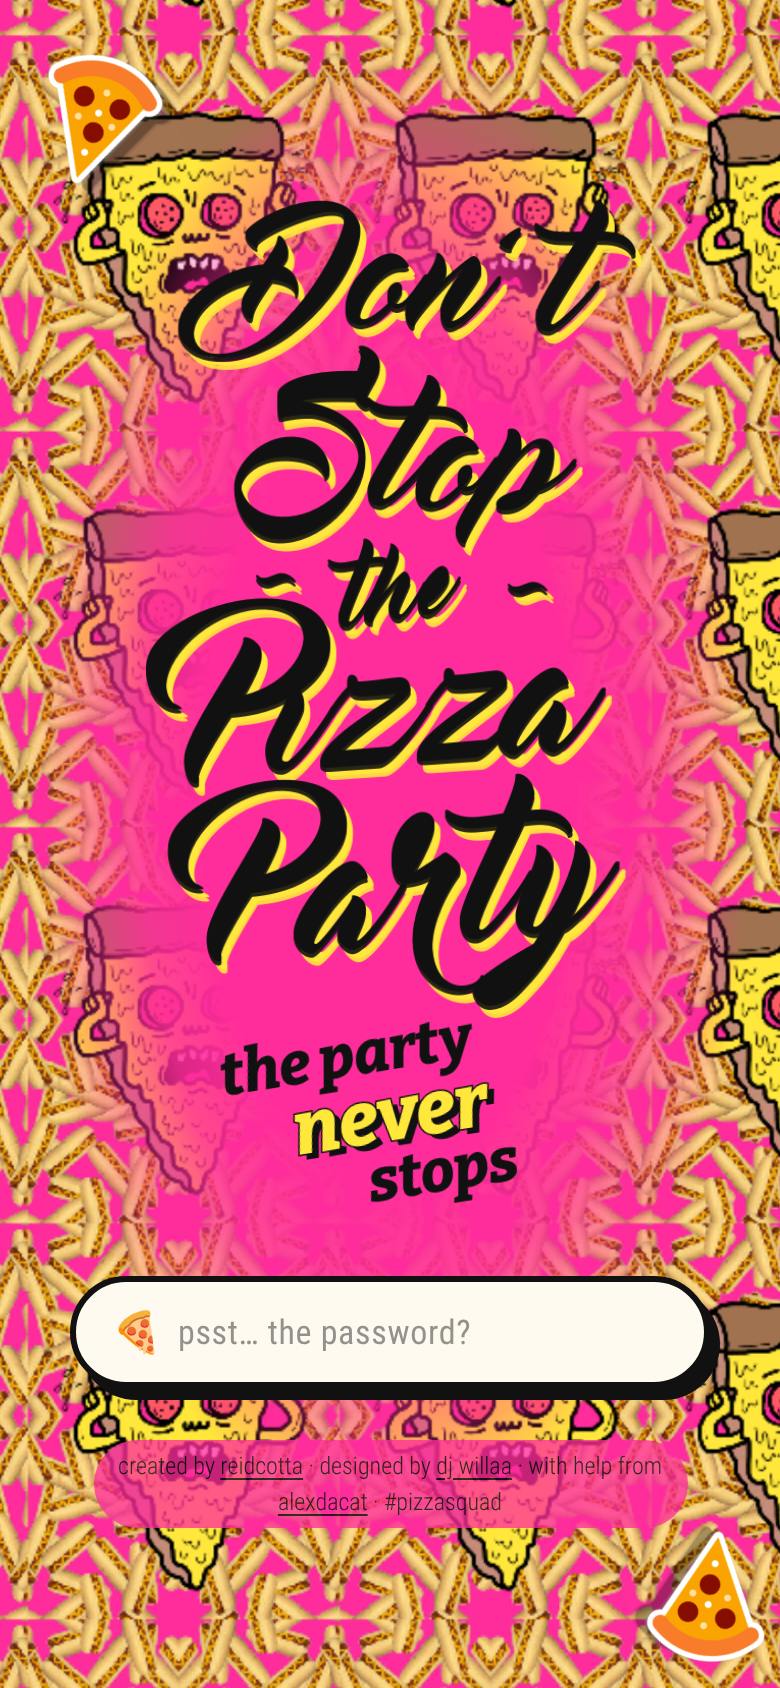
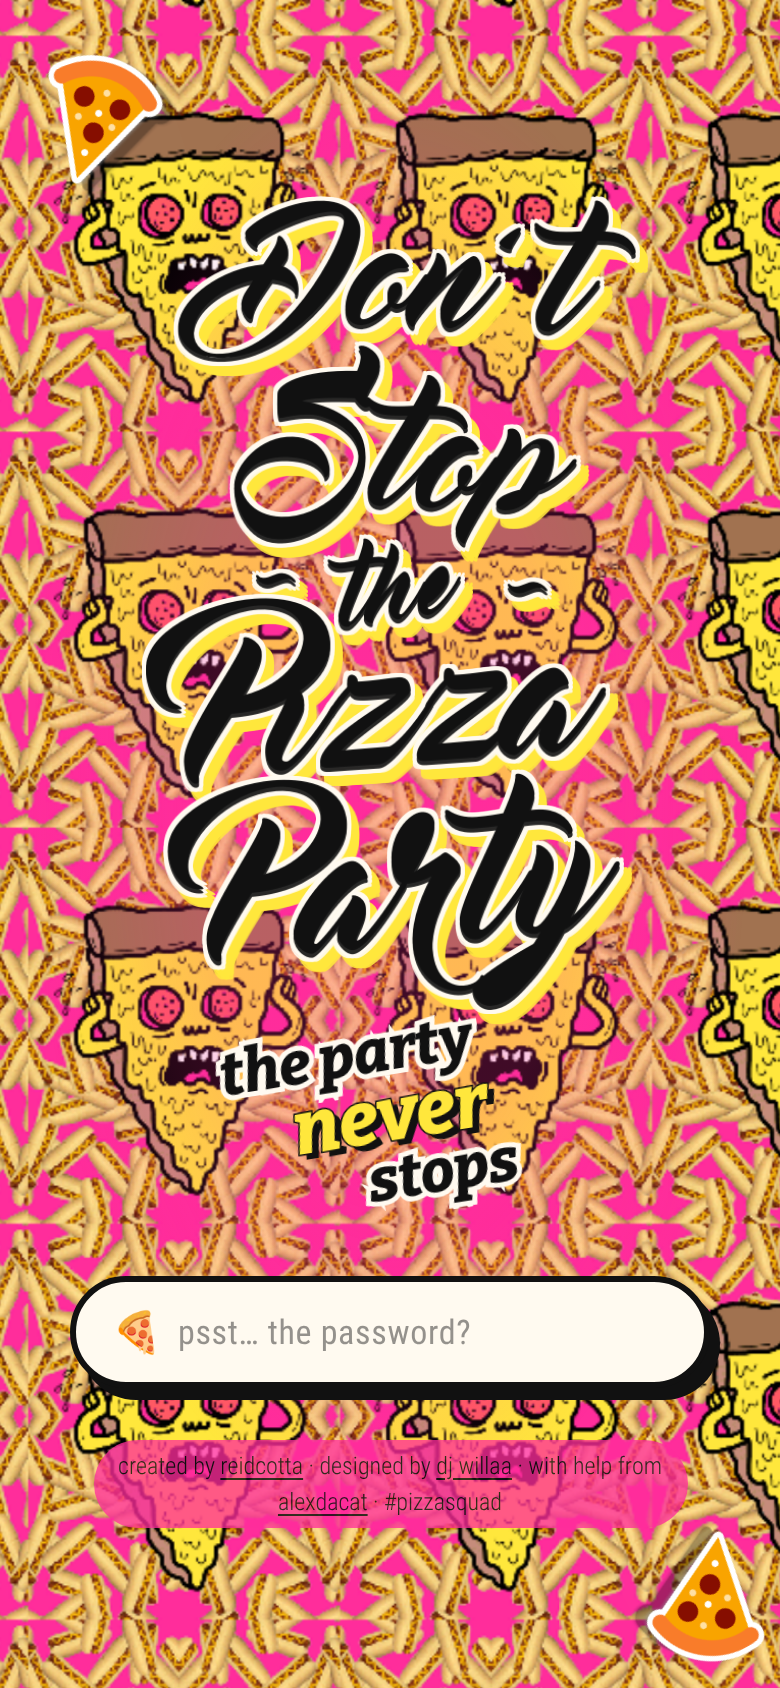
Hero: a see-through centre so the pizzas show behind the words
The spotlight was a solid block of colour that hid the wallpaper. It is
now a tint (--spot-a, default 25% solid; 0 turns it off), and the logo
and tagline carry their own halo instead (--outline: a 2px outline round
the logo, a 5px stroke behind the words), so they stay readable on the
busy pattern. Comparison grids of 60/35/15/0% on three palettes added.

Claude-Session: https://claude.ai/code/session_01BUtFxh6bhKj94LRtZvhsyK

diff --git a/files/home.css b/files/home.css
@@ -14,6 +14,8 @@
   --hi: #ffe73c;                /* "never" */
   --hi-edge: #111;              /* "never"'s outline and shadow */
   --accent: #111;               /* the pill's offset shadow */
+  --spot-a: 0.25;               /* how solid the spotlight is (0 = none, 1 = solid) */
+  --outline: #fffaf0;           /* halo round the logo and words, so they read on the pattern */
   --spring: cubic-bezier(0.34, 1.56, 0.64, 1);
 }
 
@@ -63,7 +65,10 @@ body {
   position: absolute;
   inset: 0;
   background: radial-gradient(ellipse 46% 44% at 50% 47%,
-    var(--spot) 0%, var(--spot) 52%, rgba(var(--spot-rgb), 0.85) 70%, rgba(var(--spot-rgb), 0) 100%);
+    rgba(var(--spot-rgb), var(--spot-a)) 0%,
+    rgba(var(--spot-rgb), var(--spot-a)) 50%,
+    rgba(var(--spot-rgb), calc(var(--spot-a) * 0.6)) 72%,
+    rgba(var(--spot-rgb), 0) 100%);
 }
 .dsp-sticker {
   position: absolute;
@@ -98,7 +103,11 @@ body {
   margin: 0;
   background: none;
   line-height: 0;
-  filter: drop-shadow(3px 4px 0 var(--logo-edge));
+  /* a 2px halo all round, then the offset edge */
+  filter:
+    drop-shadow(2px 0 0 var(--outline)) drop-shadow(-2px 0 0 var(--outline))
+    drop-shadow(0 2px 0 var(--outline)) drop-shadow(0 -2px 0 var(--outline))
+    drop-shadow(4px 5px 0 var(--logo-edge));
   animation: dsp-pop 0.9s var(--spring) 0.15s both;
 }
 .dsp-logo img {
@@ -127,7 +136,7 @@ body {
   letter-spacing: -0.01em;
   text-transform: lowercase;
 }
-.dsp-tag span { display: block; font: inherit; animation: dsp-rise 0.7s var(--spring) both; }
+.dsp-tag span { display: block; font: inherit; -webkit-text-stroke: 5px var(--outline); paint-order: stroke fill; animation: dsp-rise 0.7s var(--spring) both; }
 .dsp-tag span:nth-child(1) { animation-delay: 0.75s; translate: -0.6em 0; }
 .dsp-tag span:nth-child(2) { animation-delay: 0.9s; font-size: 1.25em; color: var(--hi); -webkit-text-stroke: 1.5px var(--hi-edge); paint-order: stroke fill; text-shadow: 3px 3px 0 var(--hi-edge); }
 .dsp-tag span:nth-child(3) { animation-delay: 1.05s; translate: 0.7em 0; }

diff --git a/index.html b/index.html
@@ -8,7 +8,7 @@ no_footer: true
    tagline, and the secret word box as a fat pill. The old site lives on behind the
    word "nostalgia". {% endcomment %}
 <link href="https://fonts.googleapis.com/css2?family=Bitter:ital,wght@1,800&display=swap" rel="stylesheet">
-<link rel="stylesheet" href="/files/home.css?v=20261104d">
+<link rel="stylesheet" href="/files/home.css?v=20261105a">
 
 <main class="dsp-hero">
   <div class="dsp-doodles" aria-hidden="true">
